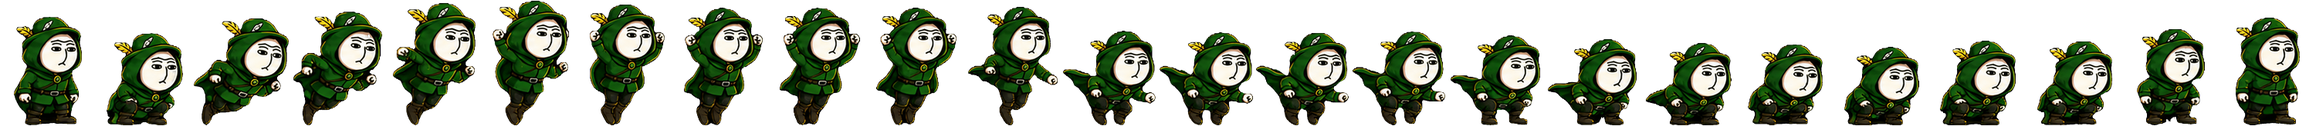
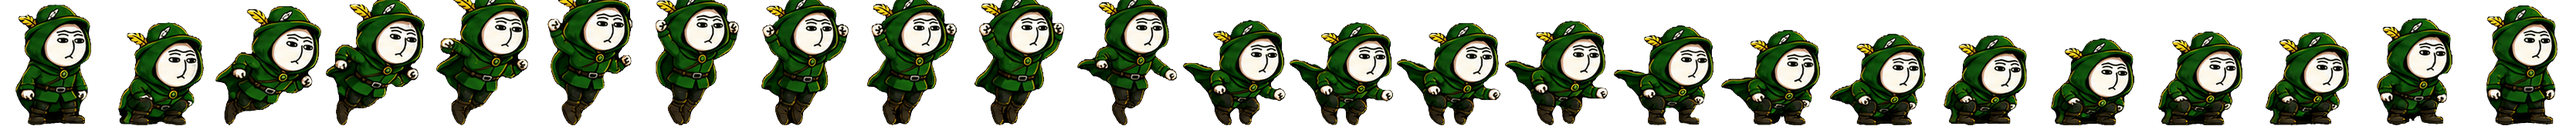
Calibrate the jump sprite's scale directly against the run sprite
Both prior passes derived the uniform scale factor from a statistic of
the jump gif's own frames (the tallest frame, then a 70th-percentile
frame) -- an improvement each time, but still an arbitrary reference
with no tie to how big the character actually looks while running.

Frame 0 of jump2_anim.gif is the character's standing pose at the very
start of the jump (before any crouch/extension), essentially the same
stance as the run cycle -- frame 23, the landing-recovery pose, lands
within 1px of it, confirming it as a reliable calibration point. The
uniform scale is now computed so frame 0's content height matches
character-run.webp's own content height ratio (159/164, i.e. what run
already draws at). Every one of the 24 frames is scaled by this same
factor and bottom-anchored (feet stay in a consistent ground-relative
position); only the handful of peak mid-air extension frames now
slightly exceed the 164px sheet height and get the overflow clipped off
the top (a few px of a raised arm/cape tip on a single ~64ms frame --
not the character's core silhouette).

jumpAspect's fallback default updated to 0.85 to match the new sheet's
widest-frame aspect ratio.

Verified visually: run-pose vs. jump-arc screenshots now read at
matching size throughout, not just on one reference frame. Re-ran the
full regression suite (cooldown, settings, sound-toggle, coin-collision,
impact-sfx desktop + mobile) -- all passing with zero console errors.
[…]

diff --git a/js/dino-game.js b/js/dino-game.js
@@ -52,7 +52,7 @@ if (canvas) {
   // frames aren't the same aspect (arms/cape spread wider mid-jump), so the
   // player's box and draw size both track whichever cycle is currently active.
   let runAspect = 0.89;
-  let jumpAspect = 0.76;
+  let jumpAspect = 0.85;
   // Background draw width + its scroll-scale ratio, computed once the
   // image loads (natural dimensions never change after that) instead of
   // redoing the same division/multiplication in draw() on every single
